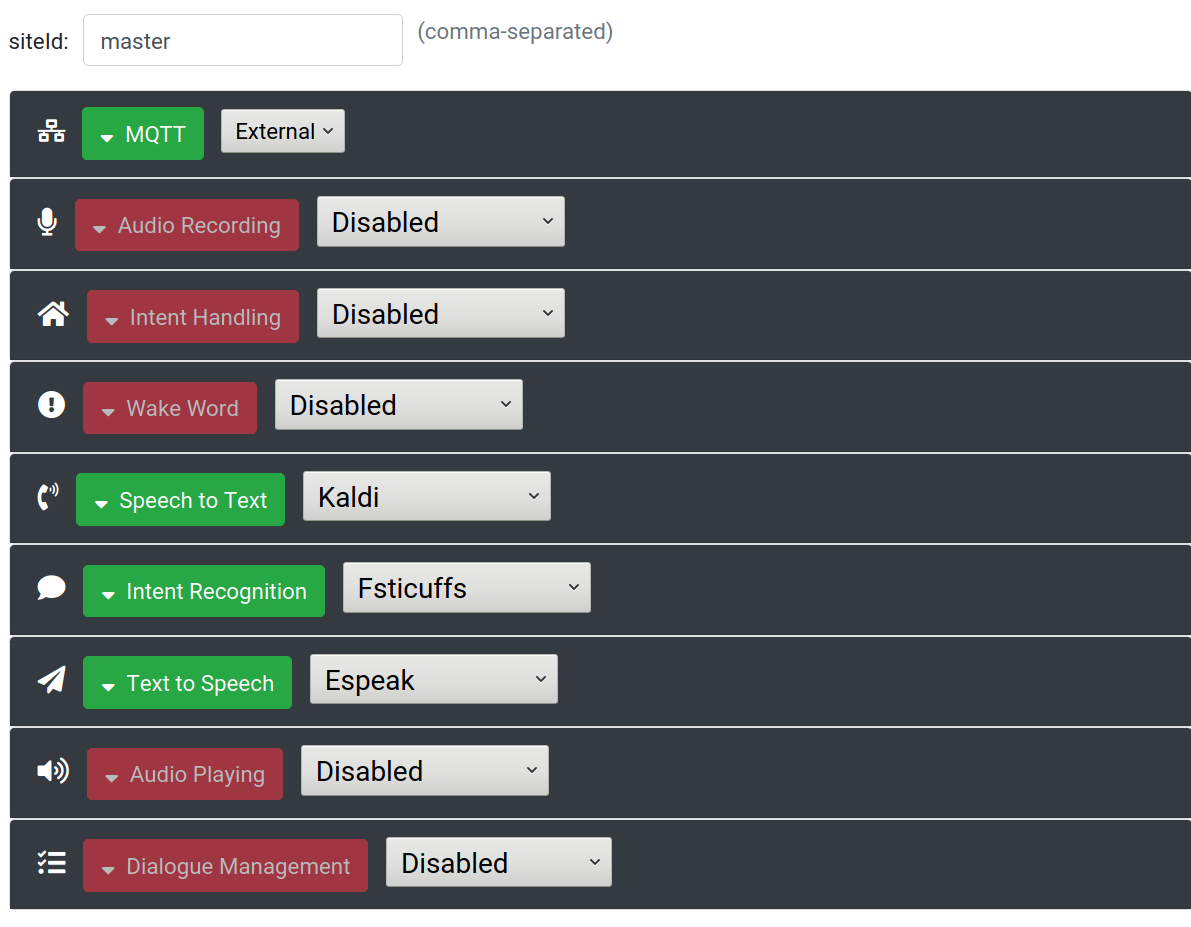
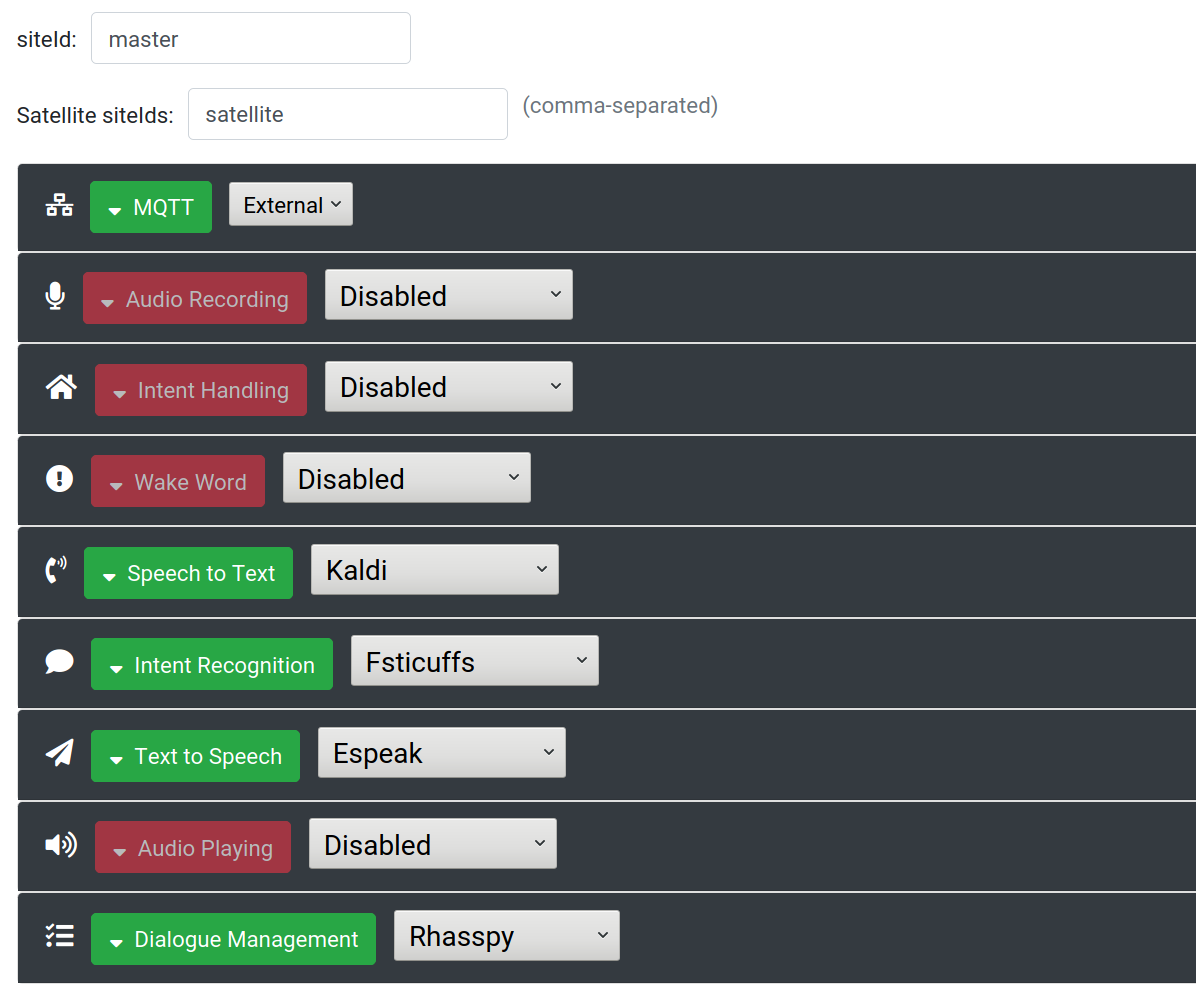
Add master/satellite tutorial and fixes

diff --git a/docs/tutorials.md b/docs/tutorials.md
@@ -282,26 +282,65 @@ This script loops indefinitely and waits for an MQTT message on `hermes/intent/#
 
 A common usage scenario for Rhasspy is to have one or more low power satellites connect to a more powerful central server. These satellites are typically Raspberry Pi's, and are responsible for:
 
-* Wake word detection
-* Audio recording from a microphone
-* Audio playback to a speaker
+* [Wake word](wake-word.md) detection
+* [Audio recording](audio-input.md) from a microphone
+* [Audio playback](audio-output.md) to a speaker
 
 The backend server, typically a standard desktop or [Intel NUC](https://www.intel.com/content/www/us/en/products/boards-kits/nuc.html), is responsible for:
 
-* Speech to text
-* Intent recognition
-* Text to speech
-* Intent handling
+* [Speech to text](speech-to-text.md)
+* [Intent recognition](intent-recognition.md)
+* [Text to speech](text-to-speech.md)
+* [Intent handling](intent-handling.md)
 
-In this tutorial, we will configure two instances of Rhasspy: one as a satellite and one as a backend "master" server. This can be done using either Rhasspy's [MQTT API](reference.md#mqtt-api) or [HTTP API](reference.md#http-api) depending on whether or not the satellite and master are connected to the same MQTT broker.
+In this tutorial, we will configure **two instances** of Rhasspy: one as a satellite and one as a backend "master" server. This can be done using either Rhasspy's [MQTT API](reference.md#mqtt-api) or [HTTP API](reference.md#http-api) depending on whether or not the satellite and master are connected to the same MQTT broker.
+
+* [Master/Satellite over MQTT](#shared-mqtt-broker)
+* [Master/Satellite over HTTP](#remote-http-server)
 
 ### Shared MQTT Broker
 
 If your master server and satellite(s) are all connected to a single MQTT broker, they can easily share information. The challege, in fact, is making sure they don't share too much!
 
+The first step is to ensure that the master and satellite(s) have **different siteIds**. In the "Settings" page of each Rhasspy instance, ensure that the "siteId" at the top is unique across all [Hermes-compatible](https://docs.snips.ai/reference/hermes) services connected to your MQTT broker.
+
+#### Satellite Settings
+
+On your satellite, set MQTT to "External" and configure the details of your broker. Set the speech to text, intent recognition, and (optionally) the text to speech services to "Hermes MQTT". Make sure to disable "Dialogue Management", and enable audio recording, wake word, and audio playing.
+
+![Satellite settings for Hermes MQTT](img/master-satellite/satellite-mqtt-settings.png)
+
+Setting a service to "Hermes MQTT" means that Rhasspy will expect *some* service connected to your broker to handle the appropriate [MQTT messages](reference.md#mqtt-api) for speech to text, etc.
+
+#### Master Settings
+
+For you master server, also set MQTT to "External" and configure the details of your broker. Additionally, add the `siteId`'s of each of your satellites to the "Satellite siteIds" text box (separated by commas). 
+
+Finally, set "Dialogue Management" to "Rhasspy" and enable the appropriate speech to text, intent recognition, and text to speech systems.
+
+![Master settings for Hermes MQTT](img/master-satellite/master-mqtt-settings.png)
+
+Adding one or more satellite `siteId`'s will cause the master server to listen and respond to requests for each satellite. The dialoge manager is crucial here, as it will catch hotword detections, engage the ASR and NLU systems, and dispatch TTS audio playback to the appropriate site.
+
+#### UDP Audio Streaming
+
+By default, your satellite will stream all recorded audio over MQTT. This will go to both the wake word service (satellite) and ASR service (master).
+
+If you wish to keep streaming audio contained on the satellite until the wake word is spoken, you need to configure a **UDP audio port** for both the audio recording and wake word services.
+
+![Satellite UDP ports for Hermes MQTT](img/master-satellite/satellite-mqtt-udp.png)
+
+With a UDP audio port set, the microphone audio will go directly to the wake word service (on `127.0.0.1`). When an [`asr/startListening`](reference.md#asr_startlistening) message arrives at the microphone service, it will begin streaming over MQTT. Once an [`asr/stopListening`](reference.md#asr_stoplistening) message is received, audio is streamed again over UDP only.
+
+#### Testing
+
+If all is working, you should be able to speak the wake word + voice command to the satellite and have the recognized intent show up on its test page.
+
+![Satellite test for Hermes MQTT](img/master-satellite/satellite-mqtt-test.png)
+
 ### Remote HTTP Server
 
-You can connect satellites to a master Rhasspy server without needing to worry about a shared MQTT broker or conflicting `siteId` values.
+You can also connect satellites to a master Rhasspy server *without* needing to worry about a shared MQTT broker or conflicting `siteId` values! Rhasspy's built-in [HTTP API](reference.md#http-api) allows for any external client, including a satellite, to do speech to text, intent recognition, etc.
 
 #### Satellite Settings
 

diff --git a/TODO.md b/TODO.md
@@ -1,7 +1,6 @@
 # Web UI
 
 * Add arguments to all command systems
-* Add SSL
 
 # ASR
 
@@ -22,6 +21,7 @@
 
 * Support Mycroft Precise
 * Add webhook?
+* Training for pocketsphinx keyphrase
 
 # TTS
 
